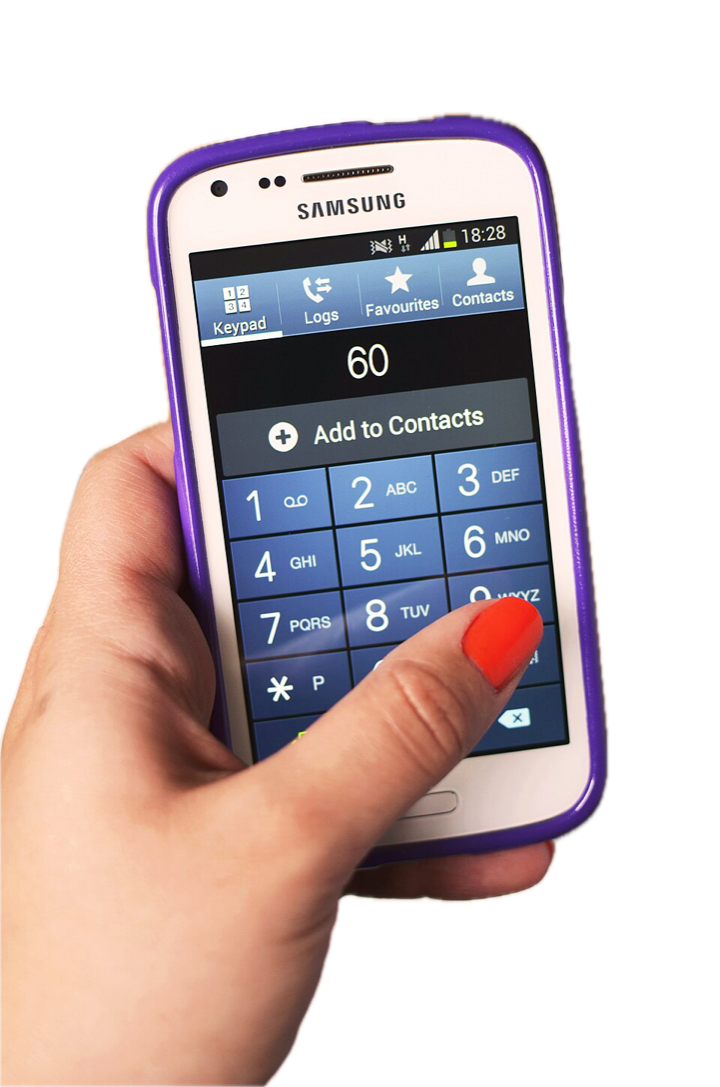
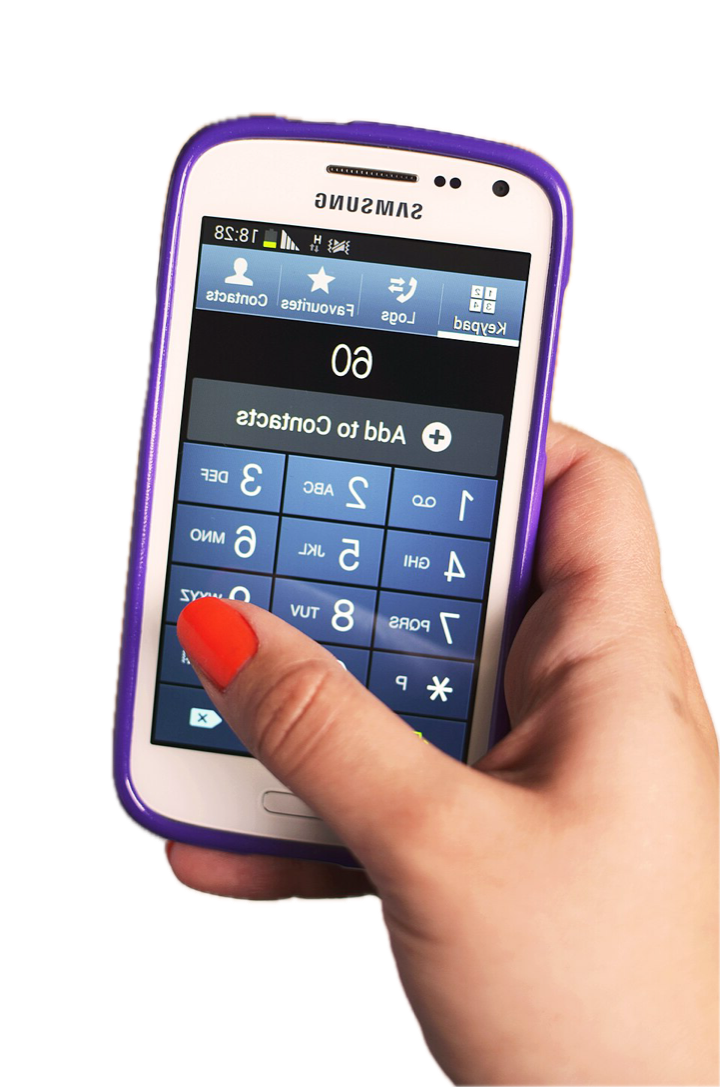
Video section: modern gold iPhone in hand, brighter reel wall (awsmd-style)
Replace the photo's old phone with a coded gold iPhone (dynamic island,
status bar, side buttons) mapped in perspective onto the mirrored hand,
thumb layered on top. The phone is larger and rises from the bottom
edge; the reel wall is brighter with rounder cards, as in the reference.

diff --git a/index.html b/index.html
@@ -1271,25 +1271,43 @@
   .vh-col{display:flex;flex-direction:column;gap:18px;will-change:transform;}
   .vh-col:nth-child(even){margin-top:-22vh;}
   .vh-card{margin:0;position:relative;border-radius:22px;overflow:hidden;aspect-ratio:9/16;background:#111;border:1px solid rgba(255,255,255,.08);
-    transition:filter .4s,opacity .4s;filter:saturate(.75) brightness(.55);}
+    transition:filter .4s,opacity .4s;filter:saturate(.95) brightness(.9);}
   .vh-card img{width:100%;height:100%;object-fit:cover;display:block;}
   .vh-card figcaption{position:absolute;left:12px;bottom:10px;font-size:12px;font-weight:600;color:rgba(255,255,255,.8);letter-spacing:.04em;}
+  .vh-card{border-radius:28px;}
   .vh-card.is-on{filter:none;}
   .vh-shade{position:absolute;inset:0;pointer-events:none;
-    background:radial-gradient(ellipse 40% 55% at 50% 55%,transparent 30%,rgba(5,6,7,.55) 100%),
-      linear-gradient(180deg,#050607 0%,transparent 16%,transparent 80%,#050607 100%);}
-  .vh-device{position:absolute;left:50%;bottom:0;height:min(84vh,780px);height:min(84svh,780px);aspect-ratio:960/1449;
+    background:linear-gradient(180deg,#050607 0%,transparent 16%,transparent 80%,#050607 100%);}
+  .vh-device{position:absolute;left:50%;bottom:-12vh;height:104vh;height:104svh;aspect-ratio:960/1449;
     transform:translateX(calc(-50% + var(--dx,0px)));transition:transform .5s cubic-bezier(.22,1,.36,1);z-index:2;
     filter:drop-shadow(0 40px 60px rgba(0,0,0,.6));}
   .vh-stage{position:absolute;left:0;top:0;width:960px;height:1449px;transform-origin:0 0;transform:scale(var(--k,.5));}
   .vh-hand,.vh-thumb{position:absolute;left:0;top:0;width:960px;height:1449px;display:block;pointer-events:none;}
-  .vh-thumb{z-index:3;clip-path:polygon(386px 1021px,414px 958px,525px 868px,594px 819px,636px 788px,694px 788px,725px 813px,722px 854px,678px 896px,594px 954px,525px 1007px,483px 1076px,386px 1076px);}
+  .vh-thumb{z-index:3;clip-path:polygon(574px 1021px,546px 958px,435px 868px,366px 819px,324px 788px,266px 788px,235px 813px,238px 854px,282px 896px,366px 954px,435px 1007px,470px 1110px,520px 1215px,660px 1215px,610px 1040px);}
   .vh-screen{position:absolute;left:0;top:0;width:450px;height:700px;transform-origin:0 0;z-index:2;overflow:hidden;background:#000;display:block;border-radius:6px;}
   .vh-screen img,.vh-screen iframe{position:absolute;inset:0;width:100%;height:100%;object-fit:cover;border:0;}
   .vh-screen iframe{width:140%;height:100%;left:-20%;pointer-events:none;opacity:0;transition:opacity .5s;}
   .vh-screen iframe.ready{opacity:1;}
   .vh-shot{transition:opacity .25s;}
   .vh-frame{position:absolute;inset:0;box-shadow:inset 0 0 0 2px rgba(0,0,0,.6),inset 0 0 40px rgba(0,0,0,.25);pointer-events:none;z-index:2;}
+  .vh-iphone{position:absolute;left:0;top:0;width:500px;height:1000px;transform-origin:0 0;z-index:2;display:block;border-radius:80px;padding:7px;
+    background:linear-gradient(135deg,#f1dcb2 0%,#a8834c 30%,#e8cc96 55%,#8a6a3a 80%,#d9bc86 100%);
+    box-shadow:inset 0 0 0 1.5px rgba(255,255,255,.35),0 0 0 1px rgba(0,0,0,.4);}
+  .vh-btn{position:absolute;width:7px;border-radius:3px;background:linear-gradient(90deg,#8a6a3a,#e8cc96);}
+  .vh-btn-a{left:-5px;top:190px;height:60px;} .vh-btn-b{left:-5px;top:280px;height:110px;} .vh-btn-c{right:-5px;left:auto;top:300px;height:150px;}
+  .vh-glass{position:absolute;inset:7px;border-radius:73px;background:#050505;}
+  .vh-scr{position:absolute;inset:16px;border-radius:58px;overflow:hidden;background:#000;}
+  .vh-scr img,.vh-scr iframe{position:absolute;inset:0;width:100%;height:100%;object-fit:cover;border:0;}
+  .vh-scr iframe{width:160%;left:-30%;pointer-events:none;opacity:0;transition:opacity .5s;}
+  .vh-scr iframe.ready{opacity:1;}
+  .vh-status{position:absolute;left:0;right:0;top:0;height:86px;z-index:2;display:flex;align-items:center;justify-content:space-between;padding:0 54px;
+    background:linear-gradient(180deg,rgba(0,0,0,.45),transparent);color:#fff;font:600 30px/1 'Inter',system-ui,sans-serif;}
+  .vh-status i{width:118px;height:26px;background:
+    linear-gradient(#fff,#fff) 0 16px/8px 10px no-repeat,linear-gradient(#fff,#fff) 12px 11px/8px 15px no-repeat,
+    linear-gradient(#fff,#fff) 24px 6px/8px 20px no-repeat,linear-gradient(#fff,#fff) 36px 1px/8px 25px no-repeat,
+    linear-gradient(#fff,#fff) 66px 3px/44px 22px no-repeat;border-radius:4px;}
+  .vh-island{position:absolute;left:50%;top:22px;width:150px;height:44px;margin-left:-75px;border-radius:24px;background:#000;z-index:3;}
+  .vh-home{position:absolute;left:50%;bottom:16px;width:150px;height:8px;margin-left:-75px;border-radius:6px;background:rgba(255,255,255,.85);z-index:2;}
   .vh-caption{position:absolute;left:clamp(18px,5vw,64px);bottom:clamp(28px,7vh,64px);z-index:4;display:flex;flex-direction:column;gap:6px;max-width:300px;}
   .vh-count{font-family:'Space Grotesk';font-size:13px;color:var(--gold);letter-spacing:.12em;}
   .vh-title{font-family:'Inter';font-weight:800;font-size:clamp(24px,2.6vw,36px);letter-spacing:-.02em;color:var(--ink);}
@@ -1894,7 +1912,7 @@
           <div class="vh-device" id="vhDevice">
             <div class="vh-stage">
               <img class="vh-hand" src="assets/reels/hand-phone.png" width="720" height="1087" alt="Hand holding a phone playing a short-form video edit" loading="lazy">
-              <a class="vh-screen" href="#" target="_blank" rel="noopener" aria-label="Watch this reel on Vimeo"><img class="vh-shot" src="assets/reels/reel-1.jpg" alt=""><span class="vh-frame"></span></a>
+              <a class="vh-iphone" href="#" target="_blank" rel="noopener" aria-label="Watch this reel on Vimeo"><span class="vh-btn vh-btn-a"></span><span class="vh-btn vh-btn-b"></span><span class="vh-btn vh-btn-c"></span><span class="vh-glass"><span class="vh-scr"><img class="vh-shot" src="assets/reels/reel-1.jpg" alt=""><span class="vh-status"><b>9:41</b><i></i></span><span class="vh-island"></span><span class="vh-home"></span></span></span></a>
               <img class="vh-thumb" src="assets/reels/hand-phone.png" width="720" height="1087" alt="" aria-hidden="true" loading="lazy">
             </div>
           </div>
@@ -2636,11 +2654,11 @@
   if(vh){
     const REELS = ['1223823674','1224385753','1224387181','1224387182','1224387775','1224387776'];
     const sticky = vh.querySelector('.vh-sticky'), device = vh.querySelector('.vh-device');
-    const stage = vh.querySelector('.vh-stage'), screen = vh.querySelector('.vh-screen'), shot = vh.querySelector('.vh-shot');
+    const stage = vh.querySelector('.vh-stage'), screen = vh.querySelector('.vh-iphone'), scr = vh.querySelector('.vh-scr'), shot = vh.querySelector('.vh-shot');
     const cols = [...vh.querySelectorAll('.vh-col')], cards = [...vh.querySelectorAll('.vh-card')];
     const countEl = vh.querySelector('.vh-count'), titleEl = vh.querySelector('.vh-title');
     // Map the 450x700 screen box onto the phone's screen corners in the photo (projective transform)
-    const quad = [[250,299],[703,282],[758,986],[333,1004]], SW = 450, SH = 700;
+    const quad = [[232,126],[784,146],[702,1166],[140,1144]], SW = 500, SH = 1000;
     const homography = ()=>{
       const [[x0,y0],[x1,y1],[x2,y2],[x3,y3]] = quad;
       const dx1 = x1-x2, dx2 = x3-x2, dy1 = y1-y2, dy2 = y3-y2, sx = x0-x1+x2-x3, sy = y0-y1+y2-y3;
@@ -2662,7 +2680,7 @@
       countEl.textContent = String(n).padStart(2,'0') + ' / 06';
       titleEl.textContent = 'Reel Edit ' + String(n).padStart(2,'0');
       screen.href = 'https://vimeo.com/' + REELS[n-1];
-      const old = screen.querySelector('iframe'); if(old) old.remove();
+      const old = scr.querySelector('iframe'); if(old) old.remove();
       clearTimeout(iframeTimer);
       if(reduce) return;
       iframeTimer = setTimeout(()=>{ // play the reel once the visitor pauses on it
@@ -2670,7 +2688,7 @@
         f.src = 'https://player.vimeo.com/video/' + REELS[n-1] + '?h=51b0474761&background=1&autoplay=1&loop=1&muted=1&controls=0';
         f.allow = 'autoplay; fullscreen; picture-in-picture'; f.title = 'Reel preview'; f.loading = 'eager';
         f.addEventListener('load', ()=>setTimeout(()=>f.classList.add('ready'), 600));
-        screen.appendChild(f);
+        scr.appendChild(f);
       }, 650);
     };
     const pick = ()=>{
